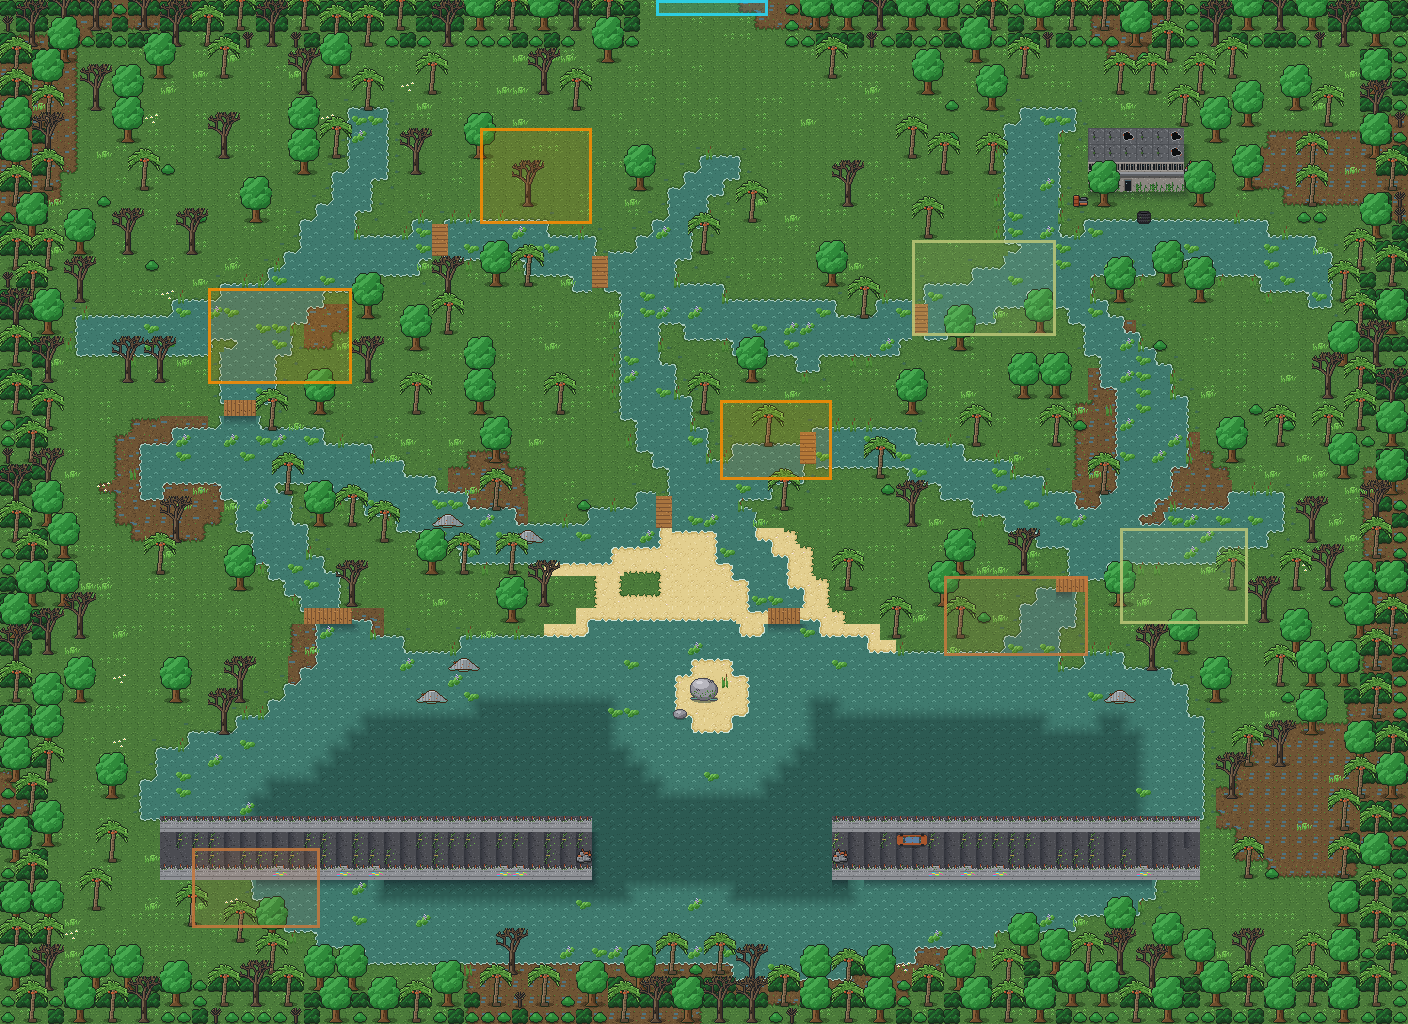
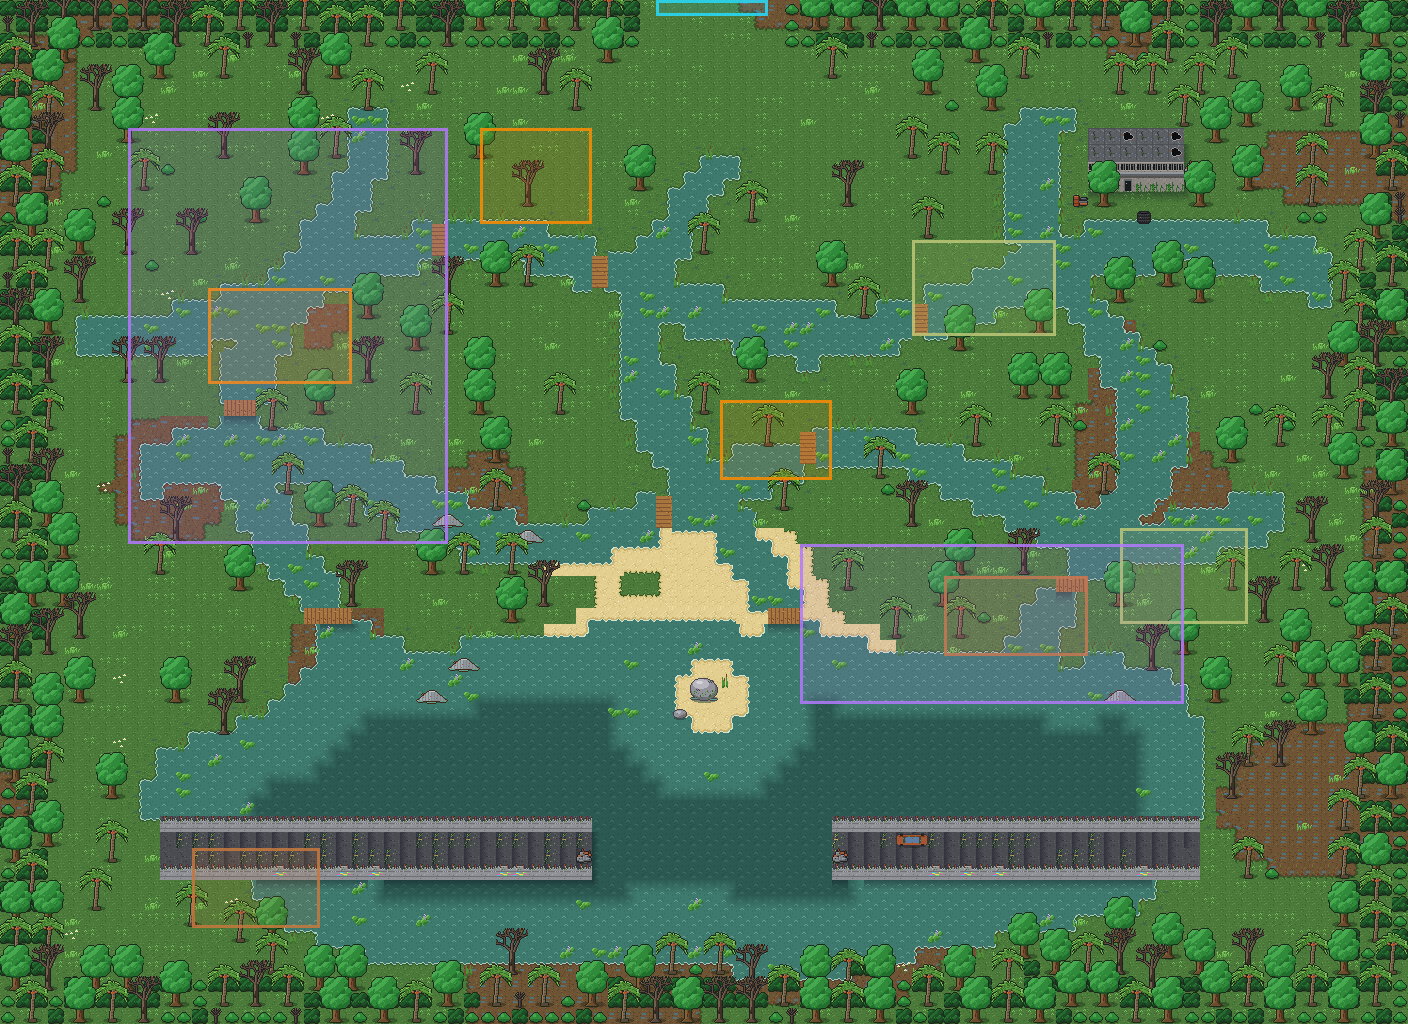
Billings: o Jacaré Mutante e o Boto Encantado passam a morar lá
- As áreas do jacaré (canais do oeste, 3) e do boto (lago das casas afundadas,
  2) saem da camada "lendas" e viram áreas de monstros; a Iara continua
  marcada em "lendas" até existir
- gen-billings.ts: as duas áreas entram no fim, sem mudar os sorteios (as
  camadas de tiles ficaram iguais)
- Teste e docs (README, DESIGN, ARQUITETURA, ROADMAP e o desenho do mapa)

Claude-Session: https://claude.ai/code/session_017ztkRBK34cTuyazDyAE2Dr

diff --git a/scripts/gen-billings.ts b/scripts/gen-billings.ts
@@ -5,9 +5,10 @@
 // fora, a usina velha e, no meio do lago, a ponte da rodovia antiga, quebrada. No sul fica o lago aberto, com
 // uma prainha de frente para a pedra onde a Iara vai cantar. Clima: neblina, vaga-lumes e um pouco escuro.
 //
-// Criaturas por enquanto (as de lá — Iara, Boto, jacarés — ainda vão ser criadas): jararacas nas ilhas perto da
-// entrada, Corpo-Seco perto da usina e das casas afundadas, Capelobo nas matas da beira do lago. As áreas das
-// lendas ficam marcadas na camada "lendas" (o servidor ignora; viram áreas de monstro quando eles existirem).
+// Criaturas: o Jacaré Mutante nos canais do oeste e o Boto Encantado no lago das casas afundadas; e as de fora
+// (jararacas nas ilhas perto da entrada, Corpo-Seco perto da usina e das casas afundadas, Capelobo nas matas da
+// beira do lago). A área da Iara fica marcada na camada "lendas" (o servidor ignora; vira área de monstro quando
+// ela existir).
 //
 // Como os outros geradores, este script NÃO sobrescreve um mapa existente sem --force
 // (para comparar: npm run gen:billings -- --out outro.tmj)
@@ -368,7 +369,7 @@ softenEdges(m.ground, W, H, [
 ]);
 softenEdges(m.ground, W, H, [{ base: ['swamp_water'], set: 'swamp_deep_edge', touches: (x, y) => m.groundIs(x, y, 'swamp_deep') }], m.depth.shade);
 
-// 12. Áreas das criaturas (as que já existem, por enquanto) e das lendas que ainda vão chegar
+// 12. Áreas das criaturas e da lenda que ainda vai chegar (a Iara)
 const game0 = GameMap.fromTiled(
   m.toTiled({ properties: [], points: [{ name: 'spawn', ...ARRIVAL }], monsters: [], exits: [] }) as unknown as TiledMap,
   'billings',
@@ -376,8 +377,6 @@ const game0 = GameMap.fromTiled(
 const reach = (x: number, y: number) => findPath(game0, ARRIVAL.x, ARRIVAL.y, x, y, W * H * 2) !== null;
 const legends: AreaObject[] = [
   { name: 'iara', x: ROCK.x - 9, y: ROCK.y - 9, w: 19, h: 12, properties: [] }, // a prainha e a pedra
-  { name: 'boto', x: 50, y: 34, w: 24, h: 10, properties: [] }, // a parte do lago com as casas afundadas
-  { name: 'jacare', x: 8, y: 8, w: 20, h: 26, properties: [] }, // os canais do oeste
 ];
 const areas: AreaObject[] = [];
 function placeArea(name: string, count: number, region: { x0: number; y0: number; x1: number; y1: number }, minDistance: number): void {
@@ -404,6 +403,11 @@ function placeArea(name: string, count: number, region: { x0: number; y0: number
 for (let k = 0; k < 3; k++) placeArea('jararaca', 3, { x0: 4, y0: 6, x1: W - 4, y1: 34 }, 12);
 for (let k = 0; k < 2; k++) placeArea('corpo_seco', 2, { x0: W / 2, y0: 14, x1: W - 4, y1: 44 }, 20);
 for (let k = 0; k < 2; k++) placeArea('capelobo', 2, { x0: 4, y0: 30, x1: W - 4, y1: H - 4 }, 26);
+// as criaturas de lá (eram marcadas na camada "lendas" até existirem); entram no fim, para não mudar os sorteios acima
+areas.push(
+  { name: 'jacare', x: 8, y: 8, w: 20, h: 26, properties: [{ name: 'quantidade', type: 'int', value: 3 }] }, // os canais do oeste
+  { name: 'boto', x: 50, y: 34, w: 24, h: 10, properties: [{ name: 'quantidade', type: 'int', value: 2 }] }, // o lago das casas afundadas
+);
 
 // 13. Monta o mapa
 const map = m.toTiled({

diff --git a/tests/maps.test.ts b/tests/maps.test.ts
@@ -82,7 +82,7 @@ describe('camadas do mapa', () => {
     expect(shore).toBeGreaterThan(100);
   });
 
-  it('a Billings liga com o Refúgio, usa só criaturas que existem e marca onde vão morar as lendas', () => {
+  it('a Billings liga com o Refúgio, tem o jacaré e o boto (criaturas que existem) e marca onde vai morar a Iara', () => {
     const billings = realMap('billings');
     const refugio = realMap('refugio');
     const objects = (map: TiledMap, layer: string) => map.layers.find((l) => l.name === layer)?.objects ?? [];
@@ -93,8 +93,9 @@ describe('camadas do mapa', () => {
     const areas = objects(billings, 'monstros');
     expect(areas.length).toBeGreaterThanOrEqual(5);
     for (const area of areas) expect(monsters.has(area.name!), area.name).toBe(true);
-    // as lendas (Iara, Boto, jacarés) ainda não existem: ficam numa camada que o servidor ignora
-    expect(objects(billings, 'lendas').map((a) => a.name)).toEqual(['iara', 'boto', 'jacare']);
+    // o jacaré e o boto já existem e moram lá; a Iara ainda não: fica numa camada que o servidor ignora
+    expect(areas.map((a) => a.name)).toEqual(expect.arrayContaining(['jacare', 'boto']));
+    expect(objects(billings, 'lendas').map((a) => a.name)).toEqual(['iara']);
     const map = GameMap.fromTiled(billings, 'billings');
     expect(map).toMatchObject({ name: 'Represa Billings', safe: false, respawnMap: 'refugio' });
     expect(map.monsterZones.map((z) => z.monster)).not.toContain('iara');

diff --git a/README.md b/README.md
@@ -26,8 +26,9 @@ lendas voltaram. Tudo começa no **Refúgio de Guarapiranga**, uma vila flutuant
   cinema (Capelobo entre as poltronas) e a praça de alimentação (onde o Saci apronta)
 - Desça a trilha do brejo, ao sul, até a **Represa Billings**: um labirinto de canais de água verde e ilhas de
   mato ligadas por passarelas, com buritis, aguapés, casas afundadas, a usina velha, a ponte da rodovia quebrada
-  no meio do lago e a prainha de frente para a pedra onde a **Iara** vai cantar (as criaturas de lá ainda estão
-  chegando; por enquanto quem mora é Jararaca, Corpo-Seco e Capelobo)
+  no meio do lago e a prainha de frente para a pedra onde a **Iara** vai cantar. Nos canais do oeste, o
+  **Jacaré Mutante** (lento na terra, mas a abocanhada dói); no lago das casas afundadas, o **Boto Encantado**, que
+  fica na dele até alguém mexer com ele. Também moram lá Jararaca, Corpo-Seco e Capelobo (a Iara ainda está chegando)
 - Explore o Refúgio de Guarapiranga com outros jogadores, em tempo real, com chat: píeres, matas, brejo e uma avenida em ruínas
 - Enfrente o **Sagui Travesso** (joga frutas), a **Jararaca** (dá o bote) e o **Saci** (gira e some num redemoinho)
 - Os monstros **avisam** os golpes com quadrados vermelhos no chão: saia de lá ou use a esquiva
@@ -244,8 +245,9 @@ todo mundo começa), `santo-amaro.tmj` (Ruínas de Santo Amaro), `billings.tmj` 
 - propriedade `faiscas` num tile: solta faíscas subindo (as brasas e o tambor com fogo de Santo Amaro)
 - propriedades do mapa `neblina` e `escuro` (de 0 a 1): neblina passando por cima de tudo e o lugar mais escuro
   (Santo Amaro usa 0.22 e 0.14; o Refúgio não usa); `vagalumes` (0 a 1): vaga-lumes piscando (a Billings usa 0.7)
-- camada de objetos `lendas` (na Billings): áreas marcadas para criaturas que ainda vão existir (`iara`, `boto`,
-  `jacare`). O servidor ignora; quando a criatura existir, a área passa para a camada `monstros`
+- camada de objetos `lendas` (na Billings): áreas marcadas para criaturas que ainda vão existir (hoje só a `iara`).
+  O servidor ignora; quando a criatura existir, a área passa para a camada `monstros` (como já foi com o `jacare` e
+  o `boto`)
 - beiradas entre terrenos (areia e água, grama e terra...) são tiles próprios, como `shore_3` (água ao norte e a
   leste) ou `sand_grass_c_ne` (grama só no canto de cima à direita): o número diz os lados que encostam no
   outro terreno (1 = norte, 2 = leste, 4 = sul, 8 = oeste, somados). Os geradores escolhem sozinhos

diff --git a/docs/DESIGN.md b/docs/DESIGN.md
@@ -137,9 +137,10 @@ voltaram a andar por aí. O mapa começa pela Zona Sul.
   caiu no meio (dá para andar até a ponta quebrada). Casas afundadas mostram só o telhado.
 - **A usina velha:** um prédio de concreto numa ilha do nordeste, com sucata em volta.
 - **A prainha da Iara:** areia de frente para uma pedra grande no meio d'água, onde ela vai cantar.
-- **Criaturas por enquanto:** Jararacas nas ilhas perto da entrada, Corpo-Seco no leste (usina e casas
-  afundadas) e Capelobo nas matas da beira do lago. As de lá (Iara, Boto, jacarés) estão marcadas no mapa e
-  entram quando forem criadas. Quem desmaia aqui acorda no Refúgio.
+- **Criaturas:** o Jacaré Mutante nos canais do oeste (3) e o Boto Encantado no lago das casas afundadas (2);
+  e as de fora: Jararacas nas ilhas perto da entrada, Corpo-Seco no leste (usina e casas afundadas) e Capelobo nas
+  matas da beira do lago. A área da Iara (a prainha e a pedra) está marcada no mapa e ela entra quando for criada.
+  Quem desmaia aqui acorda no Refúgio.
 - **As criaturas de lá** (em `data/monsters.json`):
 
   | Criatura | Nível | Jeito | Golpe | Deixa |

diff --git a/docs/ROADMAP.md b/docs/ROADMAP.md
@@ -120,7 +120,8 @@ Em etapas pequenas, cada uma jogável. Arte ainda provisória, feita por código
   12 lojas, supermercado, cinema e praça de alimentação), com criaturas provisórias (Corpo-Seco, Capelobo e Saci)
 - [x] **[estrutura]** Jacaré Mutante e Boto Encantado em `data/monsters.json` (golpes que já existem; o jacaré
   deixa o Dente de Jacaré, que vale ouro na loja)
-- [ ] **[mundo]** Passar as áreas do jacaré e do boto da camada `lendas` para `monstros` na Billings
+- [x] **[mundo]** Passar as áreas do jacaré e do boto da camada `lendas` para `monstros` na Billings (3 jacarés nos
+  canais do oeste, 2 botos no lago das casas afundadas; a Iara continua marcada em `lendas`)
 - [ ] **[arte]** Desenhos do jacaré, do boto e da Iara; ícone do Dente de Jacaré (`icone: "dente"`)
 - [ ] **[estrutura + arte + mundo]** Iara, chefe da Billings: o canto puxa o jogador para a água e a esquiva quebra o
   encanto (área já marcada: camada `lendas`); depois, Boitatá como chefe

diff --git a/docs/ARQUITETURA.md b/docs/ARQUITETURA.md
@@ -256,7 +256,7 @@ Os tipos exatos estão em `src/shared/protocol.ts`.
   importantes; o da Billings também liga cada ilha à entrada com passarelas e guarda os caminhos antes de plantar
   as árvores. Mexeu num gerador? Cuidado com a ordem dos sorteios: um sorteio a mais (ou a menos) no meio muda
   tudo o que vem depois (por isso alguns passos sorteiam "à toa", para o resto do mapa ficar igual).
-- Camada de objetos `lendas` (Billings): áreas de criaturas que ainda vão existir; o servidor ignora.
+- Camada de objetos `lendas` (Billings): áreas de criaturas que ainda vão existir (hoje, a Iara); o servidor ignora.
 - Mapa de dentro (o shopping): a planta sai de constantes no gerador (corredores, átrio, faixas de lojas) e cada
   loja tem a frente em duas linhas: o letreiro na camada `acima` (em cima da porta dá para passar por baixo dele;
   no resto da linha, a `decor` tem parede, que bloqueia) e a frente na `decor` (porta de aço, vitrine, entrada).
